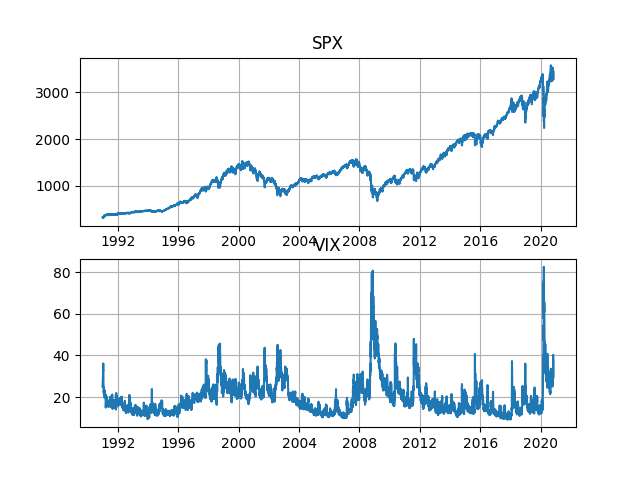
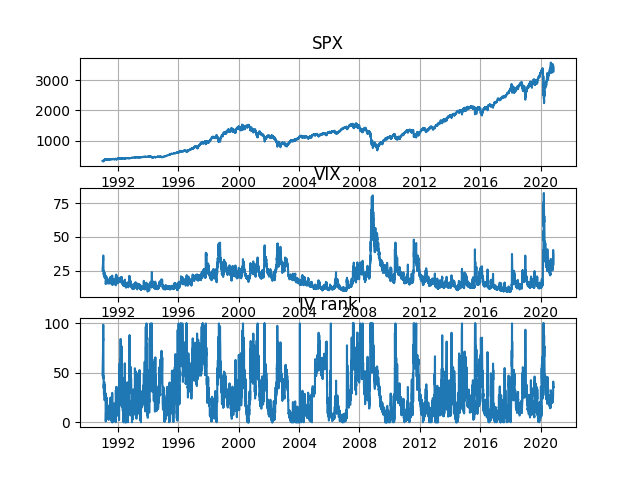
wip

diff --git a/scratch/archive/jiajun/run_uw.py b/scratch/archive/jiajun/run_uw.py
@@ -1,0 +1,166 @@
+
+import traceback
+import os
+import sys
+import datetime
+from datetime import timezone
+import pytz
+import time
+import pathlib
+import tempfile
+from tqdm import tqdm
+import numpy as np
+import pandas as pd
+
+import matplotlib.pyplot as plt
+import seaborn as sns
+import matplotlib.dates as mdates
+import pandas_market_calendars as mcal
+
+
+def get_market_open_close(day_stamp,no_tzinfo=True):
+    nyse = mcal.get_calendar('NYSE')
+    early = nyse.schedule(start_date=day_stamp, end_date=day_stamp)
+    market_open = list(early.to_dict()['market_open'].values())[0]
+    market_close = list(early.to_dict()['market_close'].values())[0]
+    if no_tzinfo:
+        return market_open.replace(tzinfo=None),market_close.replace(tzinfo=None)
+    else:
+        return market_open,market_close
+
+TOTAL_SECONDS_ONE_YEAR = 365*24*60*60 # total seconds
+
+BOT_EOD_ROOT = "/mnt/hd2/data/finance/bot-eod-zip"
+CACHE_FOLDER = "/mnt/hd1/data/uw-options-cache"
+
+def get_open_close(pq_file):
+    ticker = 'SPX'
+    day_stamp = os.path.basename(pq_file).replace(".parquet.gzip","")
+    market_open,market_close = get_market_open_close(day_stamp,no_tzinfo=True)
+    df = pd.read_parquet(pq_file)
+
+    df = df[(df.tstamp_sec >= market_open)&(df.tstamp_sec <= market_close)&(df.expiry==day_stamp)]
+    df = df.sort_values(['tstamp']).reset_index()
+
+    price_df = df[['underlying_price','tstamp_sec']]
+    price_df = price_df.groupby(['tstamp_sec']).agg(
+        underlying_price=pd.NamedAgg(column="underlying_price", aggfunc="last"),
+    ).resample('1s').ffill().reset_index()
+    price_list = price_df.underlying_price.to_list()
+    price_open = price_list[0]
+    price_high = np.nanmax(price_list)
+    price_low = np.nanmin(price_list)
+    price_close = price_list[-1]
+
+    first_few_min = market_close - datetime.timedelta(minutes=1)
+    first_few_df = df[(df.tstamp_sec<first_few_min)]
+    idx = np.abs(first_few_df.strike-price_open).argmin()
+    row = df.loc[idx,:]
+    atm_df = first_few_df[first_few_df.strike==row.strike]
+    atm_iv = np.nanmean(atm_df.implied_volatility)
+
+    vix_pq_file = pq_file.replace("SPX","VIX")
+    vix_df = pd.read_parquet(vix_pq_file)
+    vix_df = vix_df[(vix_df.tstamp_sec >= market_open)&(vix_df.tstamp_sec <= market_close)]
+    vix_df = vix_df.sort_values(['tstamp']).reset_index()
+    vix_df = vix_df.sort_values(['tstamp']).reset_index()
+    vix_price_list = vix_df.underlying_price.to_list()
+    vix_open = vix_price_list[0]
+    vix_high = np.nanmax(vix_price_list)
+    vix_low = np.nanmin(vix_price_list)
+    vix_close = vix_price_list[-1]
+
+    return day_stamp,price_open,price_high,price_low,price_close,vix_open,vix_high,vix_low,vix_close
+
+csv_file = "ohlc-spx-vix.csv"
+def generate():
+    myfolder = "/mnt/hd1/data/uw-options-cache/SPX"
+    pq_file_list = sorted([str(x) for x in pathlib.Path(myfolder).rglob("*parquet.gzip")])
+    mylist = []
+    for pq_file in tqdm(pq_file_list):
+        day_stamp,price_open,price_high,price_low,price_close,vix_open,vix_high,vix_low,vix_close = get_open_close(pq_file)
+
+        item = dict(
+            tstamp=day_stamp,
+            spx_open=price_open,
+            spx_high=price_high,
+            spx_low=price_low,
+            spx_close=price_close,
+            vix_open=vix_open,
+            vix_high=vix_high,
+            vix_low=vix_low,
+            vix_close=vix_close
+            )
+        mylist.append(item)
+    df = pd.DataFrame(mylist)
+    df.to_csv(csv_file,index=False)
+
+def main():
+    df = pd.read_csv(csv_file)
+    df = df.dropna()
+    min_tstamp = df.tstamp.min().strftime('%Y-%m-%d')
+    max_tstamp = df.tstamp.max().strftime('%Y-%m-%d')
+    print(df.head())
+    print(df.shape)
+
+    df['prct_change'] = 100*(df.spx_close-df.spx_open)/df.spx_open
+
+    # https://www.tastylive.com/concepts-strategies/implied-volatility-rank-percentile
+    def iv_rank(w):
+        return 100* ( w.iloc[-1] - np.min(w) ) / (np.max(w)-np.min(w))
+
+    df['iv_rank'] =df.vix_open.rolling(252).apply(iv_rank)
+    df = df.dropna()
+
+    fig = plt.figure()
+    ax = fig.add_subplot(2,1,1)
+    sns.scatterplot(df,x='vix_open',y='prct_change',alpha=0.5,size=0.2,ax=ax)
+    ax.set_yscale('symlog')
+    plt.xlabel('vix open price')
+    plt.ylabel('spx daily prct change')
+    plt.title(f"n={len(df)}, {min_tstamp} to {max_tstamp}")
+    plt.grid(True)
+
+    ax = fig.add_subplot(2,1,2)
+    sns.scatterplot(df,x='iv_rank',y='prct_change',alpha=0.5,size=0.2,ax=ax)
+    ax.set_yscale('symlog')
+    plt.xlabel('IV rank')
+    plt.ylabel('spx daily prct change')
+    plt.grid(True)
+
+    plt.tight_layout()
+    plt.savefig("prct_change.png")
+    plt.close()
+
+
+    # fig = plt.figure()
+    # plt.subplot(311)
+    # plt.plot(df.tstamp,df.spx_close)
+    # plt.title("SPX")
+    # plt.grid(True)
+    # plt.subplot(312)
+    # plt.plot(df.tstamp,df.vix_close)
+    # plt.title("VIX")
+    # plt.grid(True)
+    # plt.subplot(313)
+    # plt.plot(df.tstamp,df.iv_rank)
+    # plt.title("IV rank")
+    # plt.grid(True)
+    # plt.savefig("price.png")
+    # plt.close()
+
+
+
+if __name__ == "__main__":
+    if not os.path.exists(csv_file):
+        generate()
+    main()
+
+
+"""
+
+docker run -it -w $PWD -v /mnt:/mnt -p 8888:8888 fi-notebook:latest bash
+
+python locate_expiring_contracts_uw.py SPX
+
+"""

diff --git a/scratch/archive/jiajun/run.py b/scratch/archive/jiajun/run.py
@@ -50,7 +50,7 @@ plt.grid(True)
 ax = fig.add_subplot(2,1,2)
 sns.scatterplot(df,x='iv_rank',y='prct_change',alpha=0.5,size=0.2,ax=ax)
 ax.set_yscale('symlog')
-plt.xlabel('IV Rank')
+plt.xlabel('IV rank')
 plt.ylabel('spx daily prct change')
 plt.grid(True)
 
@@ -60,13 +60,17 @@ plt.close()
 
 
 fig = plt.figure()
-plt.subplot(211)
+plt.subplot(311)
 plt.plot(df.tstamp,df.spx_close)
 plt.title("SPX")
 plt.grid(True)
-plt.subplot(212)
+plt.subplot(312)
 plt.plot(df.tstamp,df.vix_close)
 plt.title("VIX")
+plt.grid(True)
+plt.subplot(313)
+plt.plot(df.tstamp,df.iv_rank)
+plt.title("IV rank")
 plt.grid(True)
 plt.savefig("price.png")
 plt.close()
